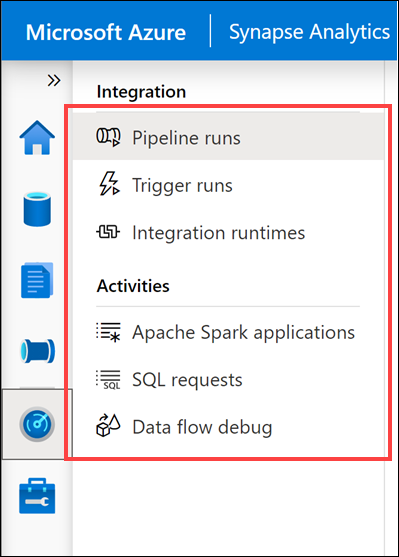
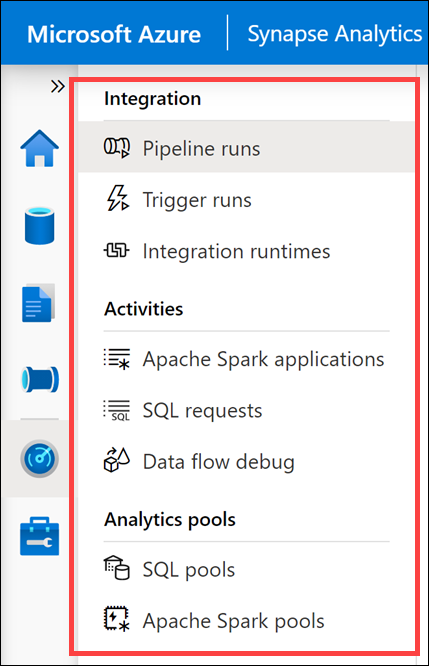
Update module 1

diff --git a/demos/module1/README.md b/demos/module1/README.md
@@ -230,6 +230,8 @@ As you will see here in our workspace, Synapse brings all of our data into a sin
     4. **Apache Spark applications** shows all the Spark applications that are running or have run in your workspace.
     5. **SQL requests** shows all SQL scripts executed either directly by you or another user, or executed in other ways, like from a pipeline run.
     6. **Data flow debug** shows active and previous debug sessions. When you author a data flow, you can enable the debugger and execute the data flow without needing to add it to a pipeline and trigger an execute. Using the debugger speeds up and simplifies the development process. Since the debugger requires an active Spark cluster, it can take a few minutes after you enable the debugger before you can use it.
+    7. **SQL pools** shows the serverless and dedicated SQL pools and their current status. When you select a dedicated SQL pool, you see a dashboard that shows the running, queued, and failed requests. You can also see the number of active requests and DWU usage over the past 24 hours, 7 days, or 30 days.
+    8. **Apache Spark pools** shows the current status of your Spark pools. Selecting a Spark pool displays a dashboard that shows the current memory and vCore allocation, active and failed applications, and a history of these items over the past 24 hours, 7 days, or 30 days.
 
 3. Select **SQL requests (1)**, then switch to the **SQLPool01 (2)** pool to see the list of SQL requests.
 
@@ -261,6 +263,7 @@ As you will see here in our workspace, Synapse brings all of our data into a sin
     6. **Access control** is where you go to add and remove users to one of three security groups: workspace admin, SQL admin, and Apache Spark for Azure Synapse Analytics admin.
     7. **Credentials** lets you manage Service Principal credentials used by the workspace, including the workspace system identity account.
     8. **Managed private endpoints** is where you manage private endpoints, which use a private IP address from within a virtual network to connect to an Azure service or your own private link service. Connections using private endpoints listed here provide access to Synapse workspace endpoints (dedicated SQL, serverless SQL, and Dev).
+    9. **Git configuration** lets you connect to a repository for source control and collaboration for work on your workspace pipelines.
 
 ## Designing a Modern Data Warehouse using Azure Synapse Analytics
 
